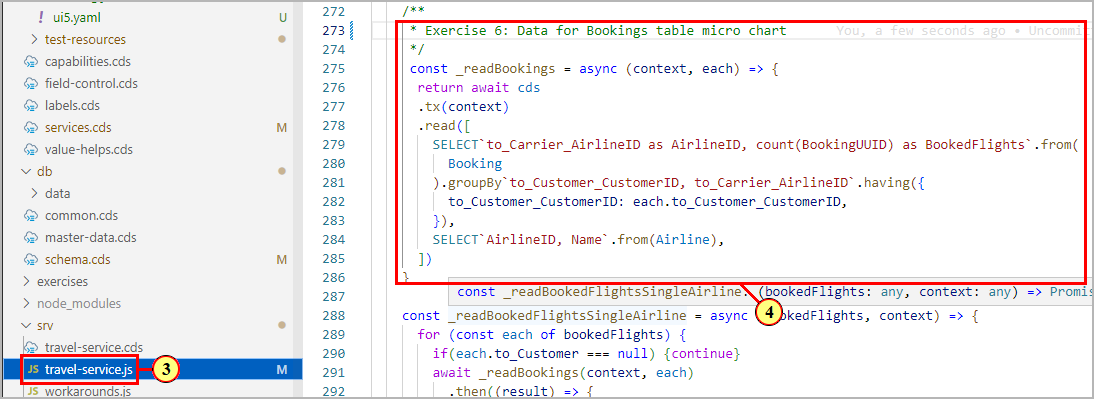
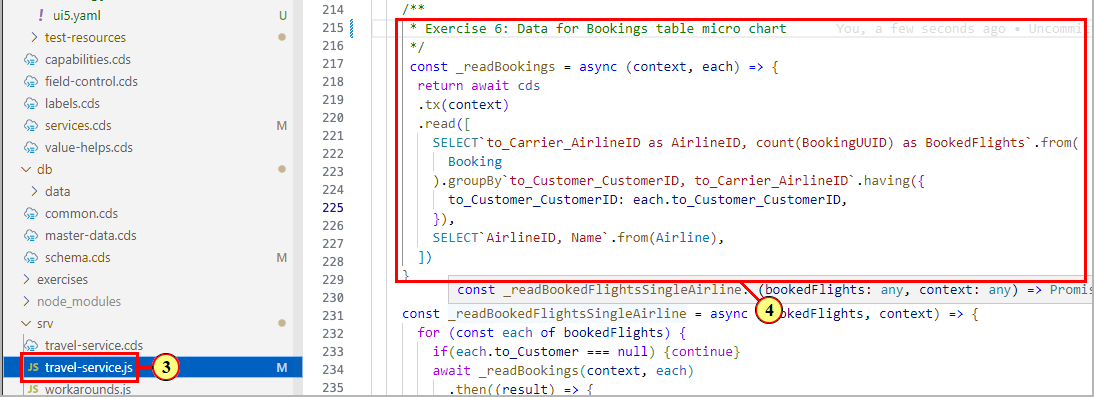
exercises updated

diff --git a/srv/travel-service.js b/srv/travel-service.js
@@ -202,53 +202,6 @@ init() {
     }
   }
 
-  /**
-   * Trees-forTickets: Set criticality to highlight green flight status in booking table
-   */
-   async function setCriticality(BookingItems) {
-    function _setCriticality(BookingItem, GoGreen) {
-      if (GoGreen) {
-        BookingItem.criticality = parseInt(3)
-      } else {
-        BookingItem.criticality = parseInt(0)
-      }
-    }
-    if (BookingItems != null) {
-      var TravelTarget
-      var BookingTarget
-      var IsActiveEntity
-      var BookingUUID
-      if (Array.isArray(BookingItems) && BookingItems.length > 0) {
-        IsActiveEntity = BookingItems[0].IsActiveEntity
-        BookingUUID = BookingItems[0].BookingUUID
-      } else {
-        IsActiveEntity = BookingItems.IsActiveEntity
-        BookingUUID = BookingItems.BookingUUID
-      }
-      if (IsActiveEntity) {
-        TravelTarget = Travel
-        BookingTarget = Booking
-      } else {
-        TravelTarget = Travel.drafts
-        BookingTarget = Booking.drafts
-      }
-
-      const { travel } =
-        await SELECT.one`to_Travel_TravelUUID as travel`.from(
-          BookingTarget,
-          BookingUUID
-        )
-      const [{ GoGreen }] = await cds.read([
-        SELECT.one`GoGreen`.from(TravelTarget).where({ TravelUUID: travel }),
-      ])
-      if (Array.isArray(BookingItems)) {
-        BookingItems.forEach((item) => _setCriticality(item, GoGreen))
-      } else {
-        _setCriticality(BookingItems, GoGreen)
-      }
-    }
-  } 
-
     /**
      * Trees-for-Tickets: Update totals including green flight fee
      */
@@ -257,17 +210,6 @@ init() {
         return this._update_totalsGreen(req)
       }
     })
-
-    /**
-     * Trees-for-Tickets: Set criticality
-     */
-
-     this.after("READ", "Booking", (results, req) => { 
-      if (results.length > 0 && "BookingUUID" in results[0]){
-        return setCriticality(results)
-      }  
-    })
-
 
     /**
      * Exercise 6: Data for Bookings table micro chart

diff --git a/exercises/ex6/README.md b/exercises/ex6/README.md
@@ -8,7 +8,7 @@ The micro chart shall show the Customer VIP Status per booking, based on all cum
 ![](./images/image1.png)
 
 The properties are annotated with **@Core.Computed**. The values are calculated in a read handler implementation for entity **Booking**
-in (3) file [/srv/travel-service.js](/srv/travel-service.js#286) , (4) section **Exercise 6: Data for Bookings table micro chart**.
+in (3) file [/srv/travel-service.js](/srv/travel-service.js#215) , (4) section **Exercise 6: Data for Bookings table micro chart**.
 
 ![](./images/image4.png)
 
